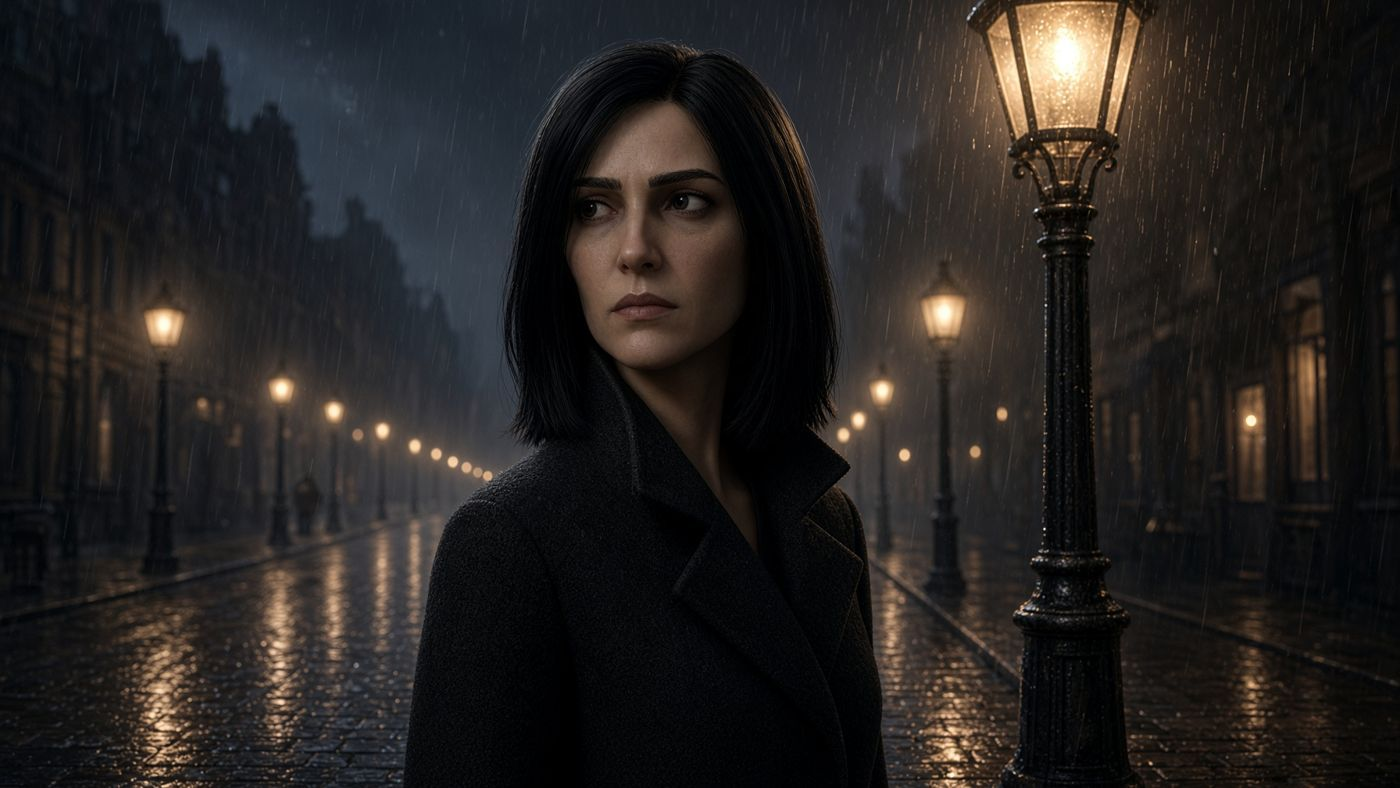
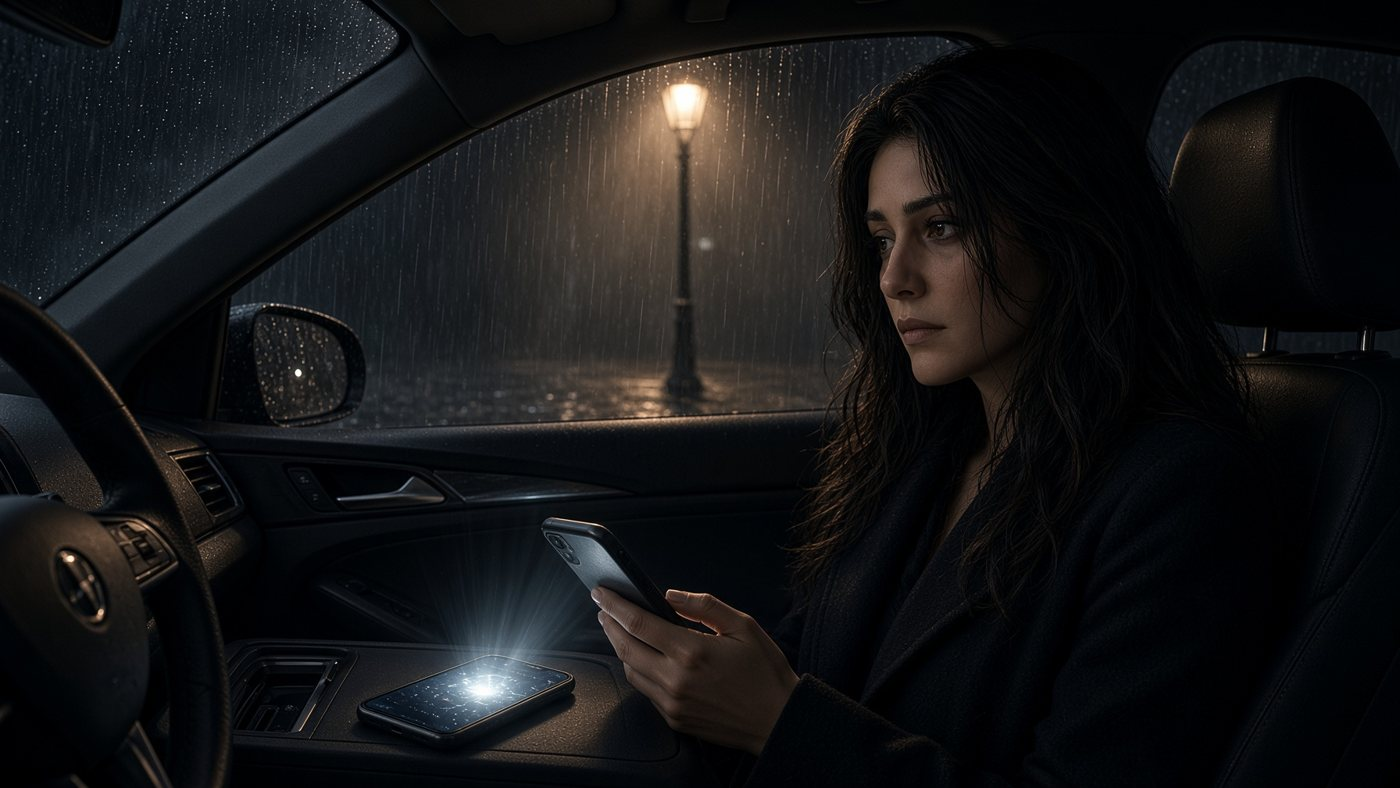
Split the speakerphone from the streetlight and the kitchen ending from the kiss.

diff --git a/src/lib/refugio/scene-frames.ts b/src/lib/refugio/scene-frames.ts
@@ -16,7 +16,7 @@ const frames: Record<string, Record<string, {
       where: { pt: "Debaixo do farol — Marina", es: "Bajo el farol — Marina", en: "Under the light — Marina" },
       artIf: [
         { if: "posto:atender", art: "/scenes/passageira-farol-atender.jpg?v=vida4", where: { pt: "Debaixo do farol — Marina", es: "Bajo el farol — Marina", en: "Under the light — Marina" } },
-        { if: "posto:viva", art: "/scenes/passageira-farol-viva.jpg?v=vida4", where: { pt: "No carro — Renata e Marina", es: "En el coche — Renata y Marina", en: "In the car — Renata and Marina" } },
+        { if: "posto:viva", art: "/scenes/passageira-farol-viva.jpg?v=vida5", where: { pt: "O viva-voz — Renata e Marina", es: "El altavoz — Renata y Marina", en: "On speaker — Renata and Marina" } },
       ],
     },
     "fim-curva": { art: "/scenes/passageira-curva.jpg?v=vida4", where: { pt: "A curva — Renata e Marina", es: "La curva — Renata y Marina", en: "The curve — Renata and Marina" } },
@@ -40,7 +40,7 @@ const frames: Record<string, Record<string, {
     sal: { art: "/scenes/sobremesa-sal.jpg?v=vida4", where: { pt: "A porta da despensa", es: "La puerta de la despensa", en: "The pantry door" } },
     "fim-conta": { art: "/scenes/sobremesa-conta.jpg?v=vida4", where: { pt: "O beco — Nanda", es: "El callejón — Nanda", en: "The alley — Nanda" } },
     "fim-prato": { art: "/scenes/sobremesa-prato.jpg?v=vida4", where: { pt: "Debaixo do prato", es: "Debajo del plato", en: "Under the plate" } },
-    "fim-cozinha": { art: "/scenes/sobremesa-cozinha.jpg?v=vida4", where: { pt: "Depois da sobremesa", es: "Después del postre", en: "After dessert" } },
+    "fim-cozinha": { art: "/scenes/sobremesa-cozinha.jpg?v=vida5", where: { pt: "Depois da sobremesa — Clara", es: "Después del postre — Clara", en: "After dessert — Clara" } },
   },
   corredor: {
     porta714: { art: "/scenes/corredor-porta.jpg?v=vida4", where: { pt: "A porta — Iara", es: "La puerta — Iara", en: "The door — Iara" } },

diff --git a/src/lib/refugio/house-cast.ts b/src/lib/refugio/house-cast.ts
@@ -130,7 +130,6 @@ export const MOTION: Record<string, Record<string, string>> = {
   },
   sobremesa: {
     forno: "/motion/sobremesa-forno.mp4?v=vida4",
-    "fim-cozinha": "/motion/sobremesa-forno.mp4?v=vida4",
   },
   depoimento: {
     del: "/motion/depoimento-del.mp4?v=vida4",
